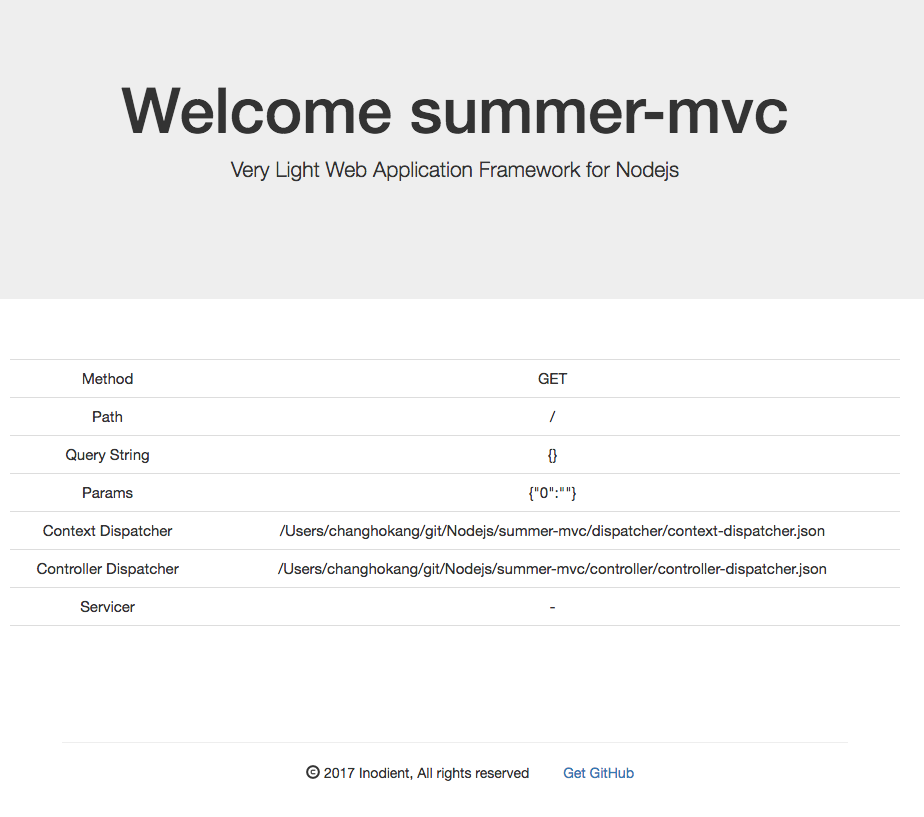
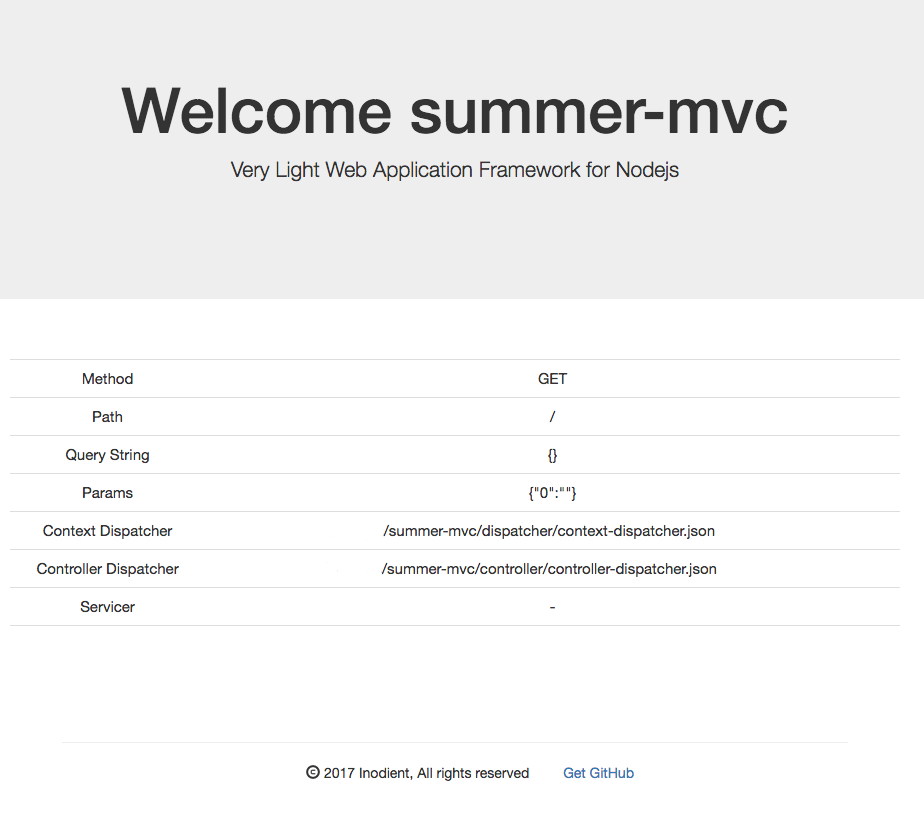
v1.0.1 Release. README.md corrected.

Changed region(s): [[0.303, 0.6426, 0.9091, 0.7038]]

diff --git a/index.js b/index.js
@@ -1,34 +1,21 @@
 const was = require( "./app.js" );
 
-// exports.init = function( port ){
-//   was.init( port );
-// }
-//
-// exports.setContextDispatchingInfo = function( path, file ){
-//   was.setContextDispatchingInfo( __dirname + "/dispatcher", "dispatcher.json" );
-// }
-//
-// exports.setControllerDispatchingInfo = function( path, file ){
-//   was.setControllerDispatchingInfo( __dirname + "/controller", "controller-dispatcher.json" );
-// }
-//
-// exports.setServicerPath = function( path ){
-//   was.setServicerPath( __dirname + "/services" );
-// }
-//
-// exports.setDefaultViewPath = function( path ){
-//   was.setDefaultViewPath( __dirname + "/views" );
-// }
+exports.init = function( port ){
+  was.init( port );
+}
 
-try{
+exports.setContextDispatchingInfo = function( path, file ){
+  was.setContextDispatchingInfo( path, file );
+}
 
-  was.init( 3000 );
-  // was.setContextDispatchingInfo( __dirname + "/dispatcher", "dispatcher.json" );
-  // was.setControllerDispatchingInfo( __dirname + "/controller", "controller-dispatcher.json" );
-  // was.setServicerPath( __dirname + "/services" );
-  //
-  // was.setDefaultViewPath( __dirname + "/views" );
+exports.setControllerDispatchingInfo = function( path, file ){
+  was.setControllerDispatchingInfo( path, file );
+}
 
-} catch( e ){
-  console.log( e );
+exports.setServicerPath = function( path ){
+  was.setServicerPath( path, file );
+}
+
+exports.setDefaultViewPath = function( path ){
+  was.setDefaultViewPath( path, file );
 }

diff --git a/app.js b/app.js
@@ -39,17 +39,15 @@ exports.setContextDispatchingInfo = function( path, file ){
 
   if( path ){
     pathes.setDispatcherPath( path );
+  } else{
+    pathes.setDispatcherPath( __dirname + "/dispatcher" );
   }
 
   if( file ){
     pathes.setDispatcherJS( file );
+  } else{
+    pathes.setDispatcherJS( "context-dispatcher.json" );
   }
-
-  path = __dirname + "/dispatcher";
-  file = "context-dispatcher.json";
-
-  pathes.setDispatcherPath( path );
-  pathes.setDispatcherJS( file );
 
   dispatcher.setDispatchingInfo( path, file );
 }
@@ -60,17 +58,15 @@ exports.setControllerDispatchingInfo = function( path, file ){
 
   if( path ){
     pathes.setControllerDispatcherPath( path );
+  } else{
+    pathes.setControllerDispatcherPath( __dirname + "/controller" );
   }
 
   if( file ){
     pathes.setControllerDispatcherJS( file );
+  } else{
+    pathes.setControllerDispatcherJS( "controller-dispatcher.json" );
   }
-
-  path = __dirname + "/controller";
-  file = "controller-dispatcher.json";
-
-  pathes.setControllerDispatcherPath( path );
-  pathes.setControllerDispatcherJS( file );
 }
 
 exports.setServicerPath = function( path ){
@@ -79,11 +75,9 @@ exports.setServicerPath = function( path ){
 
   if( path ){
     pathes.setServicerPath( path );
+  } else{
+    pathes.setServicerPath( __dirname + "/services" )
   }
-
-  path = __dirname + "/services";
-
-  pathes.setServicerPath( path );
 }
 
 

diff --git a/controller/controller-dispatcher.js b/controller/controller-dispatcher.js
@@ -4,15 +4,17 @@ var dispatchingInfo;
 
 function setDispatchingInfo( path, file ){
   try{
-    dispatchingInfo = require( "./controller-dispatcher.json" );
+
 
     if( path ){
       if( file ){
         path = path + "/" + file;
       }
-    }
 
-    dispatchingInfo = require( common.parsePath(path) );
+      dispatchingInfo = require( common.parsePath(path) );
+    } else{
+      dispatchingInfo = require( "./controller-dispatcher.json" );
+    }
 
   } catch( e ){
     console.log( e );

diff --git a/dispatcher/context-dispatcher.js b/dispatcher/context-dispatcher.js
@@ -76,6 +76,11 @@ exports.dispatching = function( req, pathes ){
         if( dispatchedPath === reqPath ){
 
           var controller;
+
+          if( controllerJS == "controller-dispatcher.js" ){
+            controllerPath = "../controller";
+          }
+
           if( controllerPath ){
             controller = require( require("../js/common.js").parsePath(controllerPath + "/" + controllerJS) );
           } else{

diff --git a/README.md b/README.md
@@ -1,5 +1,5 @@
 # summer-mvc
-Structural, Convenient, Spring-like web application development framework.
+Structural, Light, Spring-like web application development framework.
 
 ### Installation
 ```
@@ -15,7 +15,7 @@ $ npm install summer-mvc
 ### Philosophy
 The summer-mvc has only one goal to provide very simple way to design web application.  
 As most developer feel comfortable for using the spring framework, the summer-mvc looks like the spring framework.  
-It use small dispatcher-engine (like spring's dispatcher-servlet), and it can be controlled json files(like spring's xxx-servlet.xml).  
+It use small dispatcher-engine (like spring's dispatcher-servlet), and it can be controlled by JSON files(like spring's xxx-servlet.xml).  
 
 ### Quick Start
 The quickest way to get started with summer-mvc is to utilize the executable `summer-mvc` to generate an application as shown below:  
@@ -47,21 +47,177 @@ setServicerPath
 listen port : 3000
 ```
 
-Preparation Completed. Please call URL like <http://localhost:3000/>.  
-Welcome summer-mvc!  
+Preparation Completed. Please call URL like <http://localhost:3000/> (http://{user_hostname}:{port}/).  
+#####Welcome summer-mvc!  
 ![Welcome Page](https://github.com/inodient/summer-mvc/blob/master/img/welcome.png)  
 
 ### Docs & Community
-Unfortunately, we don't have special docs and community, yet.  
-We are sorry about that.  
-Please wait until releasing v2.0.0. That time we release compact package.  
+Unfortunately, this project has no special docs and communities, yet.  
+Please wait until releasing v2.0.0. That time you can see a compact package.  
 
-<!-- ### Examples -->
+### Usage
+The summer-mvc contains two engines for dispatching clients http request.
+(context-dispatcher.js, controller-dispatcher-js)    
+These engines are embedded on the package you installed, so you don't need to implement these.    
+But you must design a structure of your system using 2 JSON files.
+(context-dispatcher.json, controller-dispatcher.json)   
+
+1. dispatching Info JSON Files
+1. context-dispatcher.json
+context-dispatcher is the engine for dispatching clients http request to controllers.    
+You must to write dispatchingInfo (type : JSON) file and set this file to dispatcher using setContextDispatchingInfo() method.    
+
+DispatchingInfo File consists of JSON Object arrays "GET" and "POST".    
+> {
+>   "GET" : [
+>     {
+>       "id": "index",
+>       "path": "/",
+>       "controllerJS": "controller.js",
+>       "controlFunction": "control",
+>       "viewPath": "default",
+>       "view": "welcome.ejs"
+>     }
+>   ]
+>   "POST" : [
+>     {
+>       "id": "welcomePost",
+>       "path": "/welcomePost",
+>       "controllerJS": "controller-dispatcher.js",
+>       "controlFunction": "dispatching",
+>       "viewPath": "default",
+>       "view": "welcomePost.ejs"
+>     }
+>   ]
+> }
+
+Each method has at least 6 objects id, path, controllerJS, controlFunction, viewPath and view.    
+Objects specifics as follow:    
+> - id : identification for dispatching info. It does not use for summer-mvc, but can a way to design the system sharply.    
+> - path : http request path ( ex : http://{user_hostname}:{port}/**path**)    
+> - controllerJS : handler javascript file when client request **path**    
+> - controlFunction : control function that is implemented in **controllerJS**. It must be wrapped by exports keyword (ex: exports.control = function(){} );    
+> - viewPath : path of rendering view files under view engine's default path. You can set view engine's default path using setDefaultViewPath() method.    
+> - view : name of view file. Currently, `summer-mvc` only support ejs view engine.    
+
+2. controller-dispatcher.json
+controller-dispatcher is the engine for dispatching controller's execution request to services.    
+You must to write dispatchingInfo (type : JSON) file and set this file to dispatcher using setControllerDispatchingInfo() method.        
+
+If you don't want to use this, you can use *context-dispatcher* singly.    
+If you want to use this, you must set *controllerJS* as **controller-dispatcher.js** and *controlFunction* as *dispatching* (Very important).    
+Actually, it desn't need to use these objects but that is very clear use these.    
+
+
+For control dispatching, client(view file) must send *action* information to **summer-mvc**.
+```
+http://localhost:3000/post?action=initial
+```    
+Or set html form name as 'action'
+```html
+<input type="textbox" name="action">
+```
+
+controller-dispatcher 4 objects as follow:
+> [
+>   {
+>     "action": "initial",
+>     "id": "service1",
+>     "servicerJS": "service1.js",
+>     "serviceFunction": "executeService"
+>   },
+>   {
+>     "action": "initial",
+>     "id": "service2",
+>     "servicerJS": "service2.js",
+>     "serviceFunction": "executeService"
+>   }
+> ]  
+
+> - action : indicate service matched with client's request
+> - id : identification for dispatching info. It does not use for summer-mvc, but can a way to design the system sharply.   
+> - servicerJS : servicer javascript file when controller need to **action**    
+> - serviceFunction : service function that is implemented in **servicerJS**. It must be wrapped by exports keyword (ex: exports.executeService = function(){} );    
+
+2. Folder Design and set Paths    
+Generally, context-dispatcher.json located in *dispatcher* folder.    
+Generally, controller-dispatcher.json located in *controller* folder.    
+Generally, controller.js located in *controller* folder, too.    
+Generally, service.js located in *services* folder.       
+Generally, ejs view folder named as *views*.    
+(You can see these folder structure in `summer-mvc` module folders. /node-modules/summer-mvc)
+
+And you must set path and file's location information using `summer-mvc` APIs.
+
+#### setContextDispatchingInfo( path[, file] )      
+Set context-dispatcher information JSON file.    
+Path contains filename. So file is not mandatory.    
+
+#### setControllerDispatchingInfo( path[, file] )     
+Set controller-dispatcher information JSON file.    
+Path contains filename. So file is not mandatory.    
+
+#### setServicerPath( path[, file] )    
+Set services folder path.    
+
+#### setDefaultViewPath( path )    
+Set ejs view folder path.     
+
+**Important! It is efficient way that set paths with physical full path (ex:/usr/nodejs/project/summer-mvc)**
+
+3. Implement Controller and services
+- For ejs render view file dynamically, controller must be return JSON object named **model**.
+And control function must be wrapped *exports* keyword. You can use *paths* argument that contains paths used by `summer-mvc`.
+```javascript
+exports.control = function( req, paths ){
+  var model = {};
+  ....
+  return model;
+}
+```
+- For controller send **model** object to ejs, service method receive already-defined-model object and return **model** .
+And service function must be wrapped *exports* keyword.
+You can use *paths* argument that contains paths used by `summer-mvc`.
+```javascript
+exports.executeService = function( req, model, paths ){
+  .....
+  return model;
+}
+
+```
+
+4. Start application
+1. Init    
+```javascript
+var mvc = require( "summer-mvc" );
+mvc.init( 3000 );
+```
+2. Set paths
+```javascript
+mvc.setContextDispatchingInfo( __dirname + "/dispatcher", "dispatcher.json" );
+mvc.setControllerDispatchingInfo( __dirname + "/controller", "controller-dispatcher.json" );
+mvc.setServicerPath( __dirname + "/services" );
+mvc.setDefaultViewPath( __dirname + "/views" );
+```
+
+5. Test URLs
+- HTTP GET : http://{user_hostname}:{port}/
+- HTTP GET : http://{user_hostname}:{port}/index
+- HTTP GET : http://{user_hostname}:{port}/welcome
+
+- HTTP POST :
+  1. HTTP GET : http://{user_hostname}:{port}/post?action=initial
+  2. Type "initial" and Submit
+  3. HTTP POST called and send HTTP GET http://{user_hostname}:{port}/welcomePost
+
+
+##### If you install `summer-mvc`, you can see some example codes in module folders. (/node-modules/summer-mvc.)
 
 <!-- ### Tests -->
 
 ### People
-The original author of summer-mvc is inodient(inodient@gmail.com)  
+The original author of summer-mvc is Changho Kang(inodient@gmail.com)  
+If you want to contact or have any question, we can use email as below.    
 
 ### License
-[MIT Licensed](LICENSE)
+[MIT Licensed](https://github.com/inodient/summer-mvc/blob/master/LICENSE)
